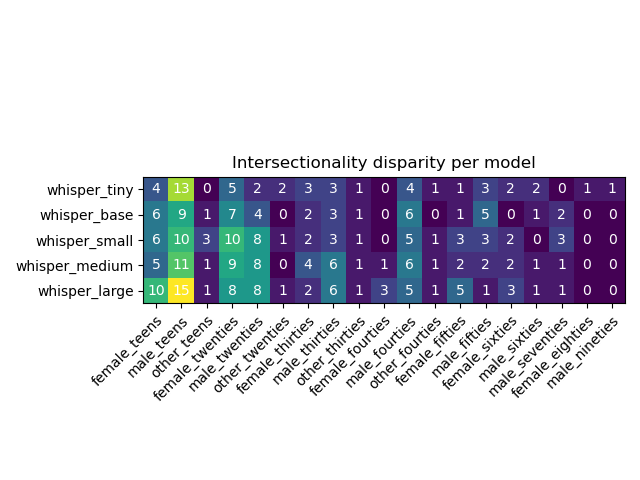
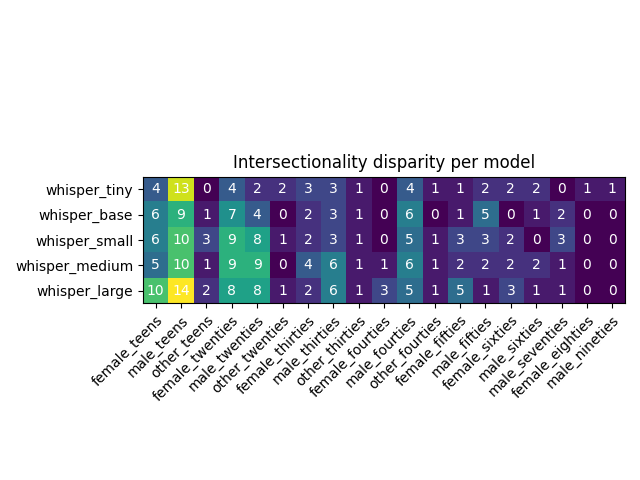
Improves eval pipeline:

diff --git a/visualize.py b/visualize.py
@@ -6,6 +6,11 @@ from absl import app
 from collections import OrderedDict
 from scipy import stats
 from tabulate import tabulate
+from generate_eval_data import EvalInfo
+import os
+import collections
+import dataclasses
+
 
 MODEL_PARAMETERS = OrderedDict({
     "whisper_tiny": 39000000,
@@ -97,7 +102,7 @@ def make_heatmap(intersectionality_significant_results, total_runs):
 
 
 def read_results():
-  with open('results/wers.json', 'r') as f:
+  with open('results/eval_data.json') as f:
     return json.load(f)
 
 
@@ -145,9 +150,10 @@ def get_significance(results, gender_disparity=True, intersectionality_disparity
 
         try:
           wers = {}
-          for demographic_group in results[dataset][model][language].keys():
-            if demographic_group == "total": continue
-            wers[demographic_group] = results[dataset][model][language][demographic_group]
+          dem_group_to_eval_data = results[dataset][model][language]
+          for demographic_group, wer_res in dem_group_to_eval_data.items():
+            if demographic_group == "all": continue
+            wers[demographic_group] = wer_res
             #if len(wers[demographic_group]) < 10: print(language, demographic_group)
 
           if gender_disparity:
@@ -163,7 +169,6 @@ def get_significance(results, gender_disparity=True, intersectionality_disparity
             if not "female_" in string_demographic_groups and "male_" in string_demographic_groups: continue
             
             intersectionality_groups = [x for x in wers.keys() if "_" in x]
-            print(intersectionality_groups)
             for demographic_group in intersectionality_groups:
               intersec_sign = do_significance_testing(wers, demographic_group, "all")
                 
@@ -182,9 +187,49 @@ def get_significance(results, gender_disparity=True, intersectionality_disparity
   if intersectionality_disparity:
     make_heatmap(intersectionality_significant_results, total_runs)
 
+
+@dataclasses.dataclass
+class WerInfo:
+  total_updates: int = 0
+  total_ref_len: int = 0
+  
+  def add_eval_results(self, eval_info: EvalInfo):
+    self.total_updates += eval_info.wer * eval_info.ref_len
+    self.total_ref_len += eval_info.ref_len
+  
+  @property
+  def wer(self):
+    return self.total_updates / self.total_ref_len
+   
+
+def get_wer_analysis(results):
+  # Make WER table: rows=model, cols=[wer_male, wer_female, wer_diff], one table/dataset
+   
+  # Things we want:
+  # - x=time, y=wer_diff_m/f: one plot/dataset, one line/model.
+  # only for voxpopuli
+  for dataset, model_dict in results.items():
+    for model, lang_dict in model_dict.items():
+      total_wer_info = WerInfo()
+      wer_info_by_year = collections.defaultdict(WerInfo)
+      for lang, eval_info_dict in lang_dict.items():
+        for eval_info_data in eval_info_dict['all']:
+          eval_info = EvalInfo(*eval_info_data)
+          total_wer_info.add_eval_results(eval_info)
+          if eval_info.date:
+            year = int(eval_info.date[:4])
+            wer_info_by_year[year].add_eval_results(eval_info)
+
+      print(f'{dataset=}, {model=}, {total_wer_info.wer=}')
+      if dataset == 'voxpopuli':
+        for year, wer_info in wer_info_by_year.items():
+          print(f'{year=}, {wer_info.wer}')
+
+
 def main(_):
   results = read_results()
-  get_significance(results, gender_disparity=True, intersectionality_disparity=True)
+  #get_significance(results, gender_disparity=True, intersectionality_disparity=True)
+  get_wer_analysis(results)
 
 
 if __name__ == '__main__':

diff --git a/generate_eval_data.py b/generate_eval_data.py
@@ -11,12 +11,12 @@ import json
 import os
 
 from absl import app
-from jiwer import wer
+
+
+EvalInfo = collections.namedtuple('EvalInfo', ['ref_len', 'wer', 'date'])
 
 
 def get_data(filename):
-  # Get a list of demographics [female, female20] per example
-  
   with open(filename) as f:
     data = csv.DictReader(f, delimiter='\t')
     for row in data:
@@ -24,15 +24,17 @@ def get_data(filename):
       demographic_groups = [row['gender']]
       if 'commonvoice' in filename and row['age']:
         demographic_groups.append(row['gender'] + '_' + row['age'])
-      yield demographic_groups, row['reference'], row['inferred']
+      eval_info = EvalInfo(len(row['reference']), float(row['wer']), row['date'])
+      yield demographic_groups, eval_info
 
-def save_results(results, directory='wer_results'):
+def save_results(results, directory='results'):
   if not os.path.isdir(directory):
     os.makedirs(directory)
-  path = os.path.join(directory, 'wers.join')
+  path = os.path.join(directory, 'eval_data.json')
   with open(path, 'w') as f:
-     f.write(json.dumps(results, indent=0))
+     f.write(json.dumps(results, indent=None))
   print('Wrote results to', path)
+
 
 def main(_):
   # dataset/model_modelsize/language = {totalWER: x, femaleWER: y, female20: z}
@@ -41,22 +43,20 @@ def main(_):
     'voxpopuli': collections.defaultdict(dict)
   }
 
-  for filename in glob.glob("inference_results/*.tsv")[:2]:
+  for filename in glob.glob("inference_results/*.tsv"):
     elements = filename.split("/")[1].split(".")[0].split("_")
     print('PROCESSING', elements)
     model, modelsize, dataset, language, _ = elements
+    model_info = f"{model}_{modelsize}"
 
-    key = f"{model}_{modelsize}"
-    results[dataset][key][language] = collections.defaultdict(list)
+    results[dataset][model_info][language] = collections.defaultdict(list)
+    dem_group_to_eval_data = results[dataset][model_info][language]
 
-    for demographic_groups, reference, inferred in get_data(filename):
-      try:
-        wer_score = wer(reference, inferred)
-      except ValueError: # some ref or inf are empty strings
-        continue
-      
+    for demographic_groups, eval_info in get_data(filename):
+      # store all eval data in the 'all' field.
+      dem_group_to_eval_data['all'].append(eval_info)
       for demographic_group in demographic_groups:
-        results[dataset][key][language][demographic_group].append(wer_score)
+        dem_group_to_eval_data[demographic_group].append(eval_info.wer)
   save_results(results)
 
 
